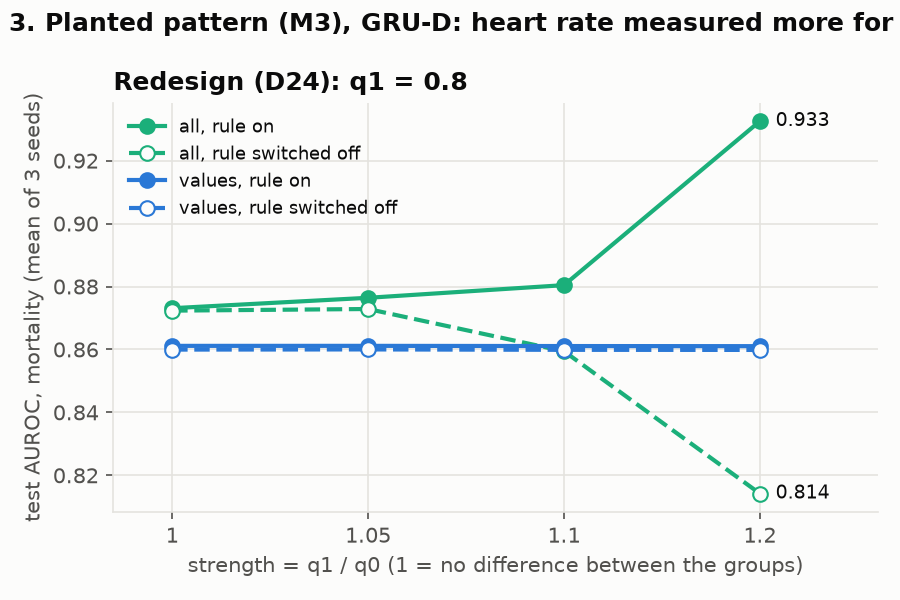
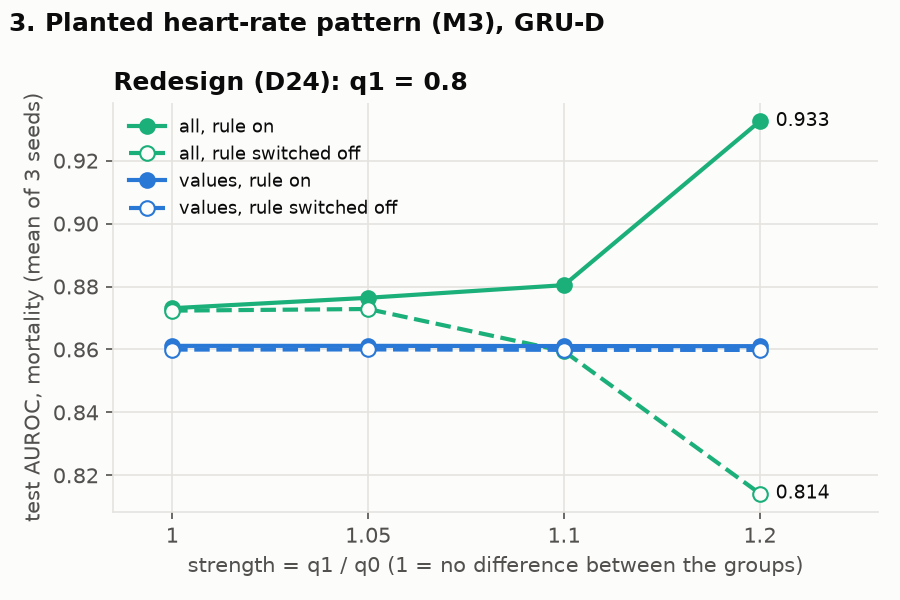
Fit the planted-pattern figure title to the single-panel layout

Changed region(s): [[0.1867, 0.0, 0.9956, 0.06]]

diff --git a/scripts/plot_findings.py b/scripts/plot_findings.py
@@ -256,7 +256,7 @@ def fig_planted(r: pd.DataFrame, name: str, out: str) -> None:
         ax.set_title(title)
     axes[0].set_ylabel("test AUROC, mortality (mean of 3 seeds)")
     axes[-1].legend(loc="upper left", fontsize=8.5)
-    suptitle(fig, f"3. Planted pattern (M3), {name}: heart rate measured more for deaths")
+    suptitle(fig, f"3. Planted heart-rate pattern (M3), {name}")
     fig.tight_layout()
     fig.savefig(out, dpi=150)
     plt.close(fig)

diff --git a/docs/log/handoff_week_03.md b/docs/log/handoff_week_03.md
@@ -6,12 +6,12 @@ The table gives mean test AUROC across seeds 0, 1 and 2 for the full models. Sep
 
 | Model | Mortality | Sepsis |
 | --- | ---: | ---: |
-| grud | 0.872 | 0.755 |
-| odernn | 0.862 | 0.757 |
+| GRU-D | 0.872 | 0.755 |
+| ODE-RNN | 0.862 | 0.757 |
 
 Reproduce the sweeps and evaluations with [the Week 2 handoff, section 5.3](handoff_week_02.md#53-run-them-same-commands-as-the-gru). The frozen configurations are in `configs/experiment/`. The aggregate scores, paired bootstrap intervals and seed-level contrasts for Week 4 are in [runs.csv](../../results/runs.csv) and [measures.csv](../../results/measures.csv).
 
-The figures use the same plotting script as the Week 2 handoff. The GRU-D values variant uses a plain GRU.
+The figures use the same plotting script as the Week 2 handoff.
 
 | Measure | GRU-D | ODE-RNN |
 | --- | --- | --- |
